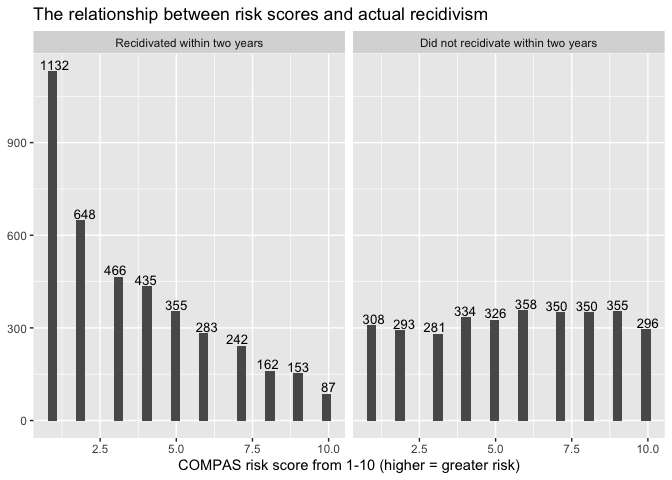
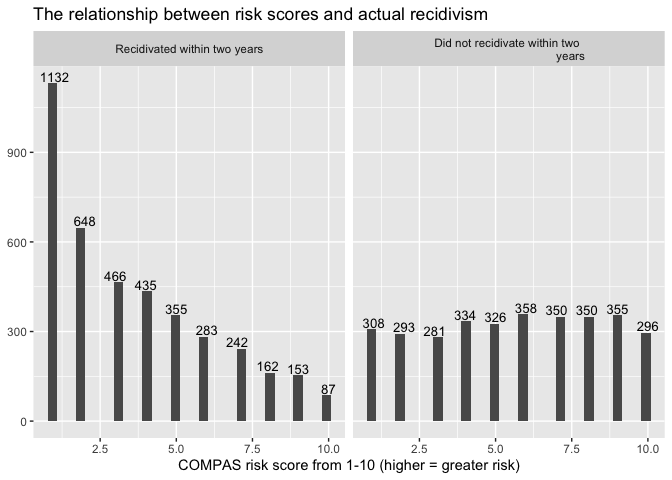
cleaning up

diff --git a/other-lab-09.md b/other-lab-09.md
@@ -52,10 +52,6 @@ ncol(compas)
 
 ## Part 1 - Exploring the Data
 
-Almost there! Keep building on your work and follow the same structure
-for any remaining exercises. Each exercise builds on the last, so take
-your time and make sure your code is working as expected.
-
 1.  Each row of the dataset represents an individual who arrested in
     Broward County, Florida. There are 7,214 people in the dataset, and
     53 different variables
@@ -267,25 +263,6 @@ compas %>%
 ``` r
 compas %>%
   ggplot(aes(
-    x = two_year_recid,
-    y = decile_score
-  ))+
-  geom_smooth(formula = y~x, color = "black")+
-  theme_bw()+
-   labs(
-    x = "Whether the defendant recidivated within two years (0 = no, 1 = yes)",
-    y = "COMPAS risk score",
-    title = "The relationship between risk scores and actual recidivism"
-  )
-```
-
-    ## `geom_smooth()` using method = 'gam'
-
-![](other-lab-09_files/figure-gfm/risk%20score%20to%20recidivism%20visual-1.png)<!-- -->
-
-``` r
-compas %>%
-  ggplot(aes(
     x = decile_score
   ))+
   facet_wrap(~two_year_recid)+
@@ -300,6 +277,25 @@ compas %>%
 
     ## `stat_bin()` using `bins = 30`. Pick better value with `binwidth`.
 
+![](other-lab-09_files/figure-gfm/risk%20score%20to%20recidivism%20visual-1.png)<!-- -->
+
+``` r
+compas %>%
+  ggplot(aes(
+    x = two_year_recid,
+    y = decile_score
+  ))+
+  geom_smooth(formula = y~x, color = "black")+
+  theme_bw()+
+   labs(
+    x = "Whether the defendant recidivated within two years (0 = no, 1 = yes)",
+    y = "COMPAS risk score",
+    title = "The relationship between risk scores and actual recidivism"
+  )
+```
+
+    ## `geom_smooth()` using method = 'gam'
+
 ![](other-lab-09_files/figure-gfm/risk%20score%20to%20recidivism%20visual-2.png)<!-- -->
 
 Assuming I did this correctly, it appears that recidivism, on average,
@@ -313,15 +309,17 @@ compas %>%
     x = decile_score
   ))+
   geom_histogram()+
-      geom_text(
-    stat = "count",
+  geom_text(
     aes(x = decile_score,
-    y = ..count..,
-    label = ..count..),
+        y = ..count..,
+        label = ..count..),
+    stat = "count",
     size = 3.5, 
     color = "black",
     vjust = -0.2) +
-  facet_wrap(~ two_year_recid, labeller = as_labeller(c(`0` = "Recidivated within two years", `1` = "Did not recidivate within two years")))+
+  facet_wrap(~ two_year_recid, 
+             labeller = as_labeller(c(`0` = "Recidivated within two years", `1` = "Did not recidivate within two 
+                                      years")))+
   labs(
     x = "COMPAS risk score from 1-10 (higher = greater risk)",
     y = NULL,
